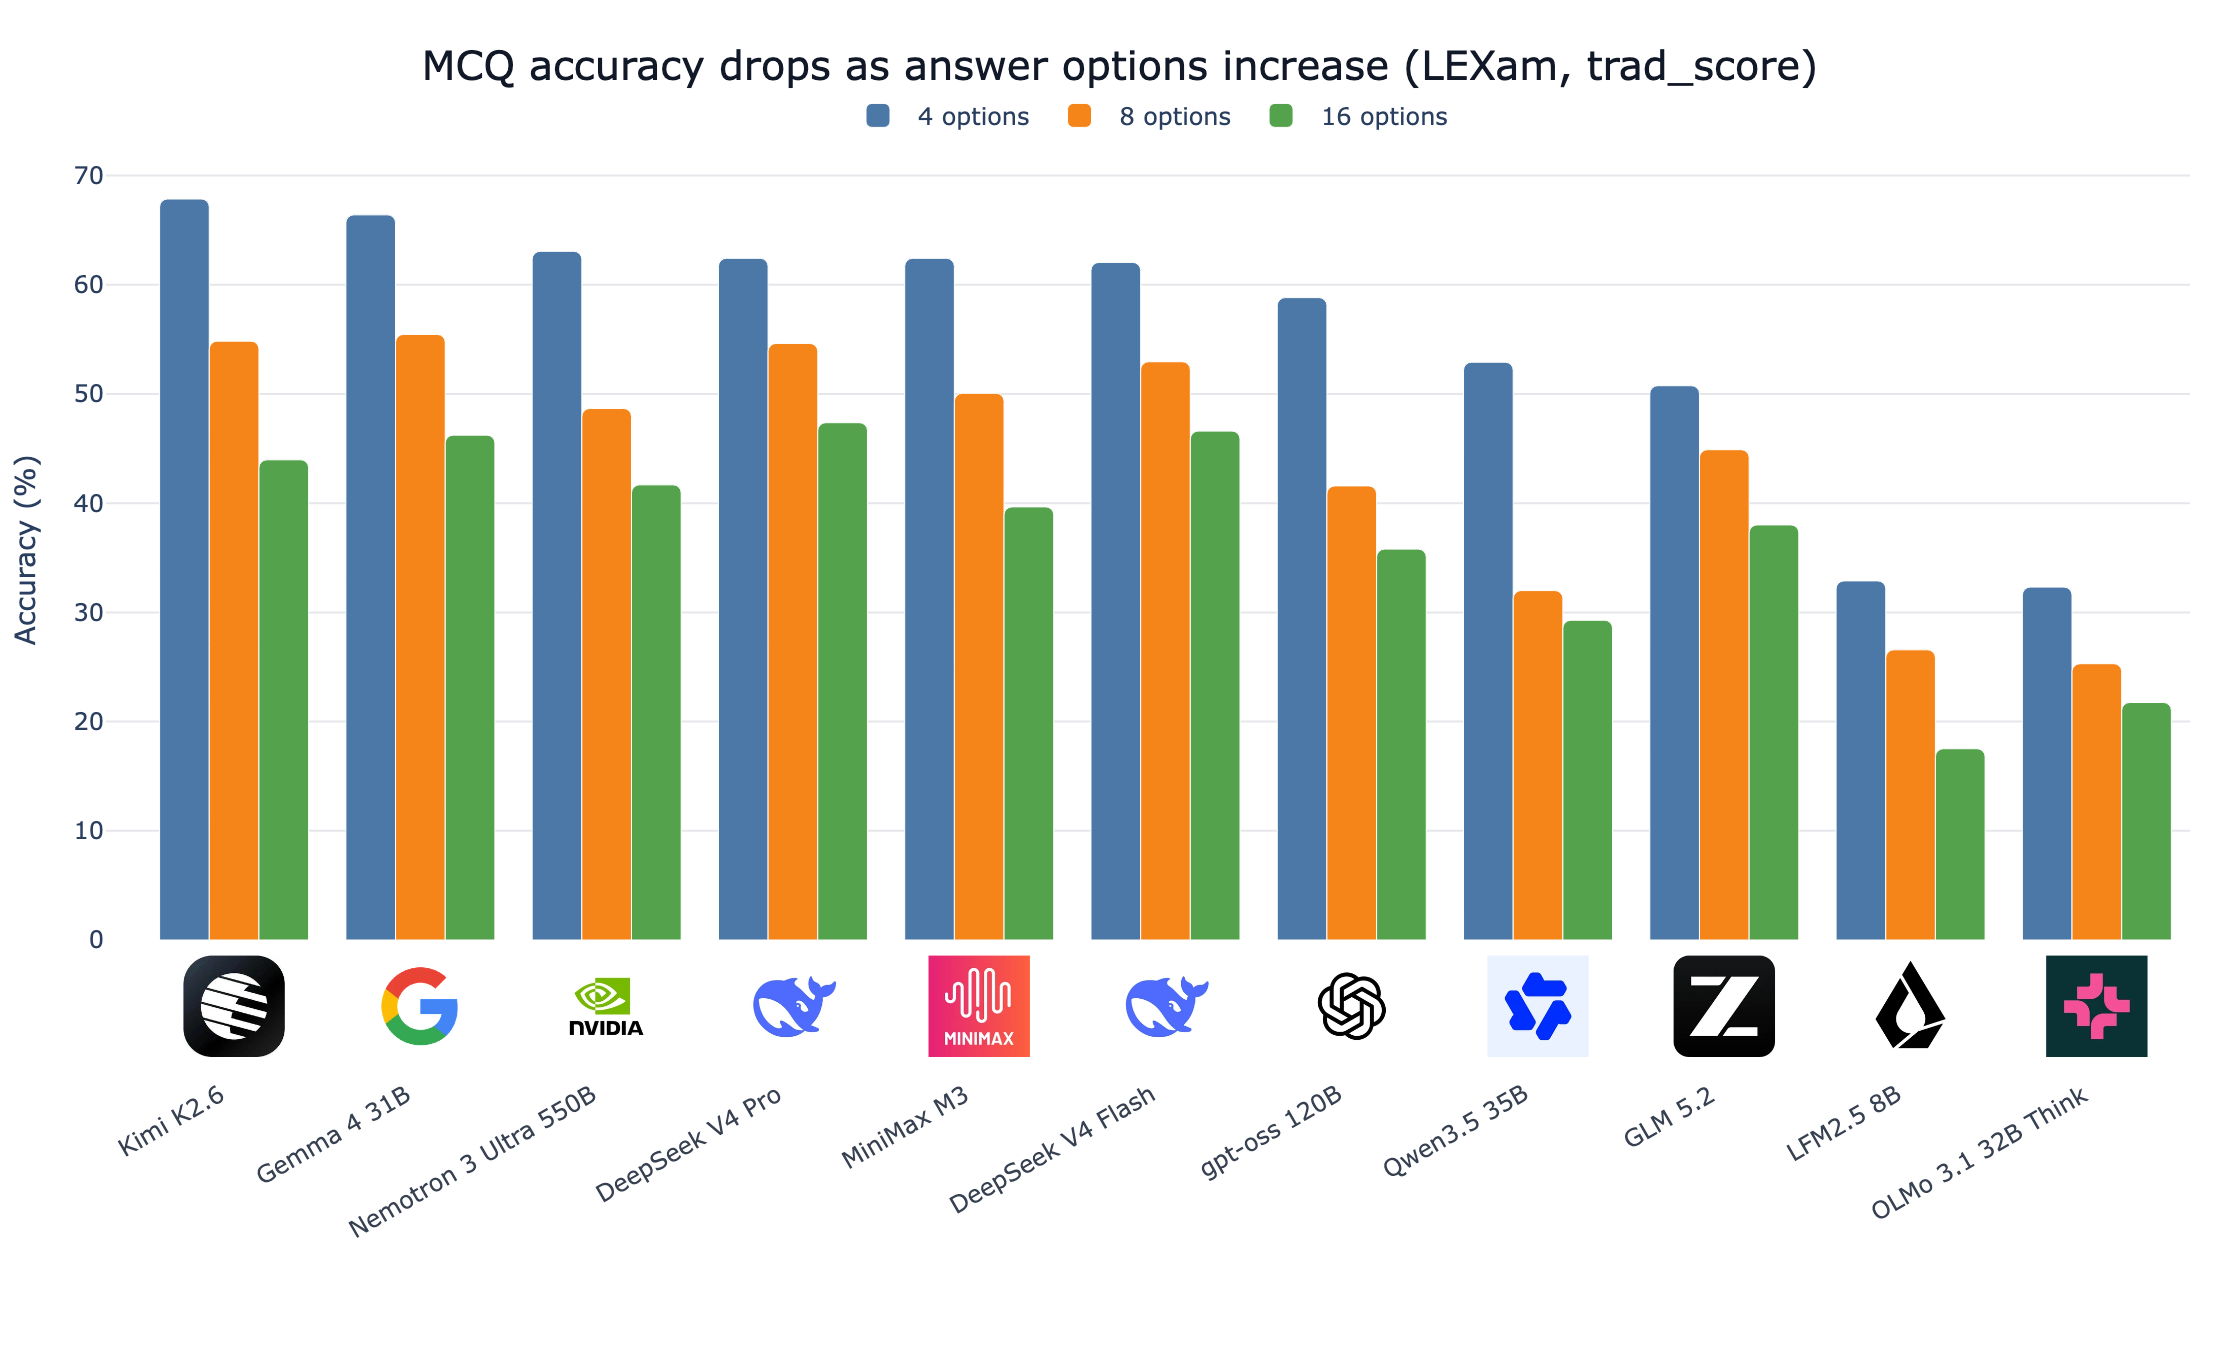
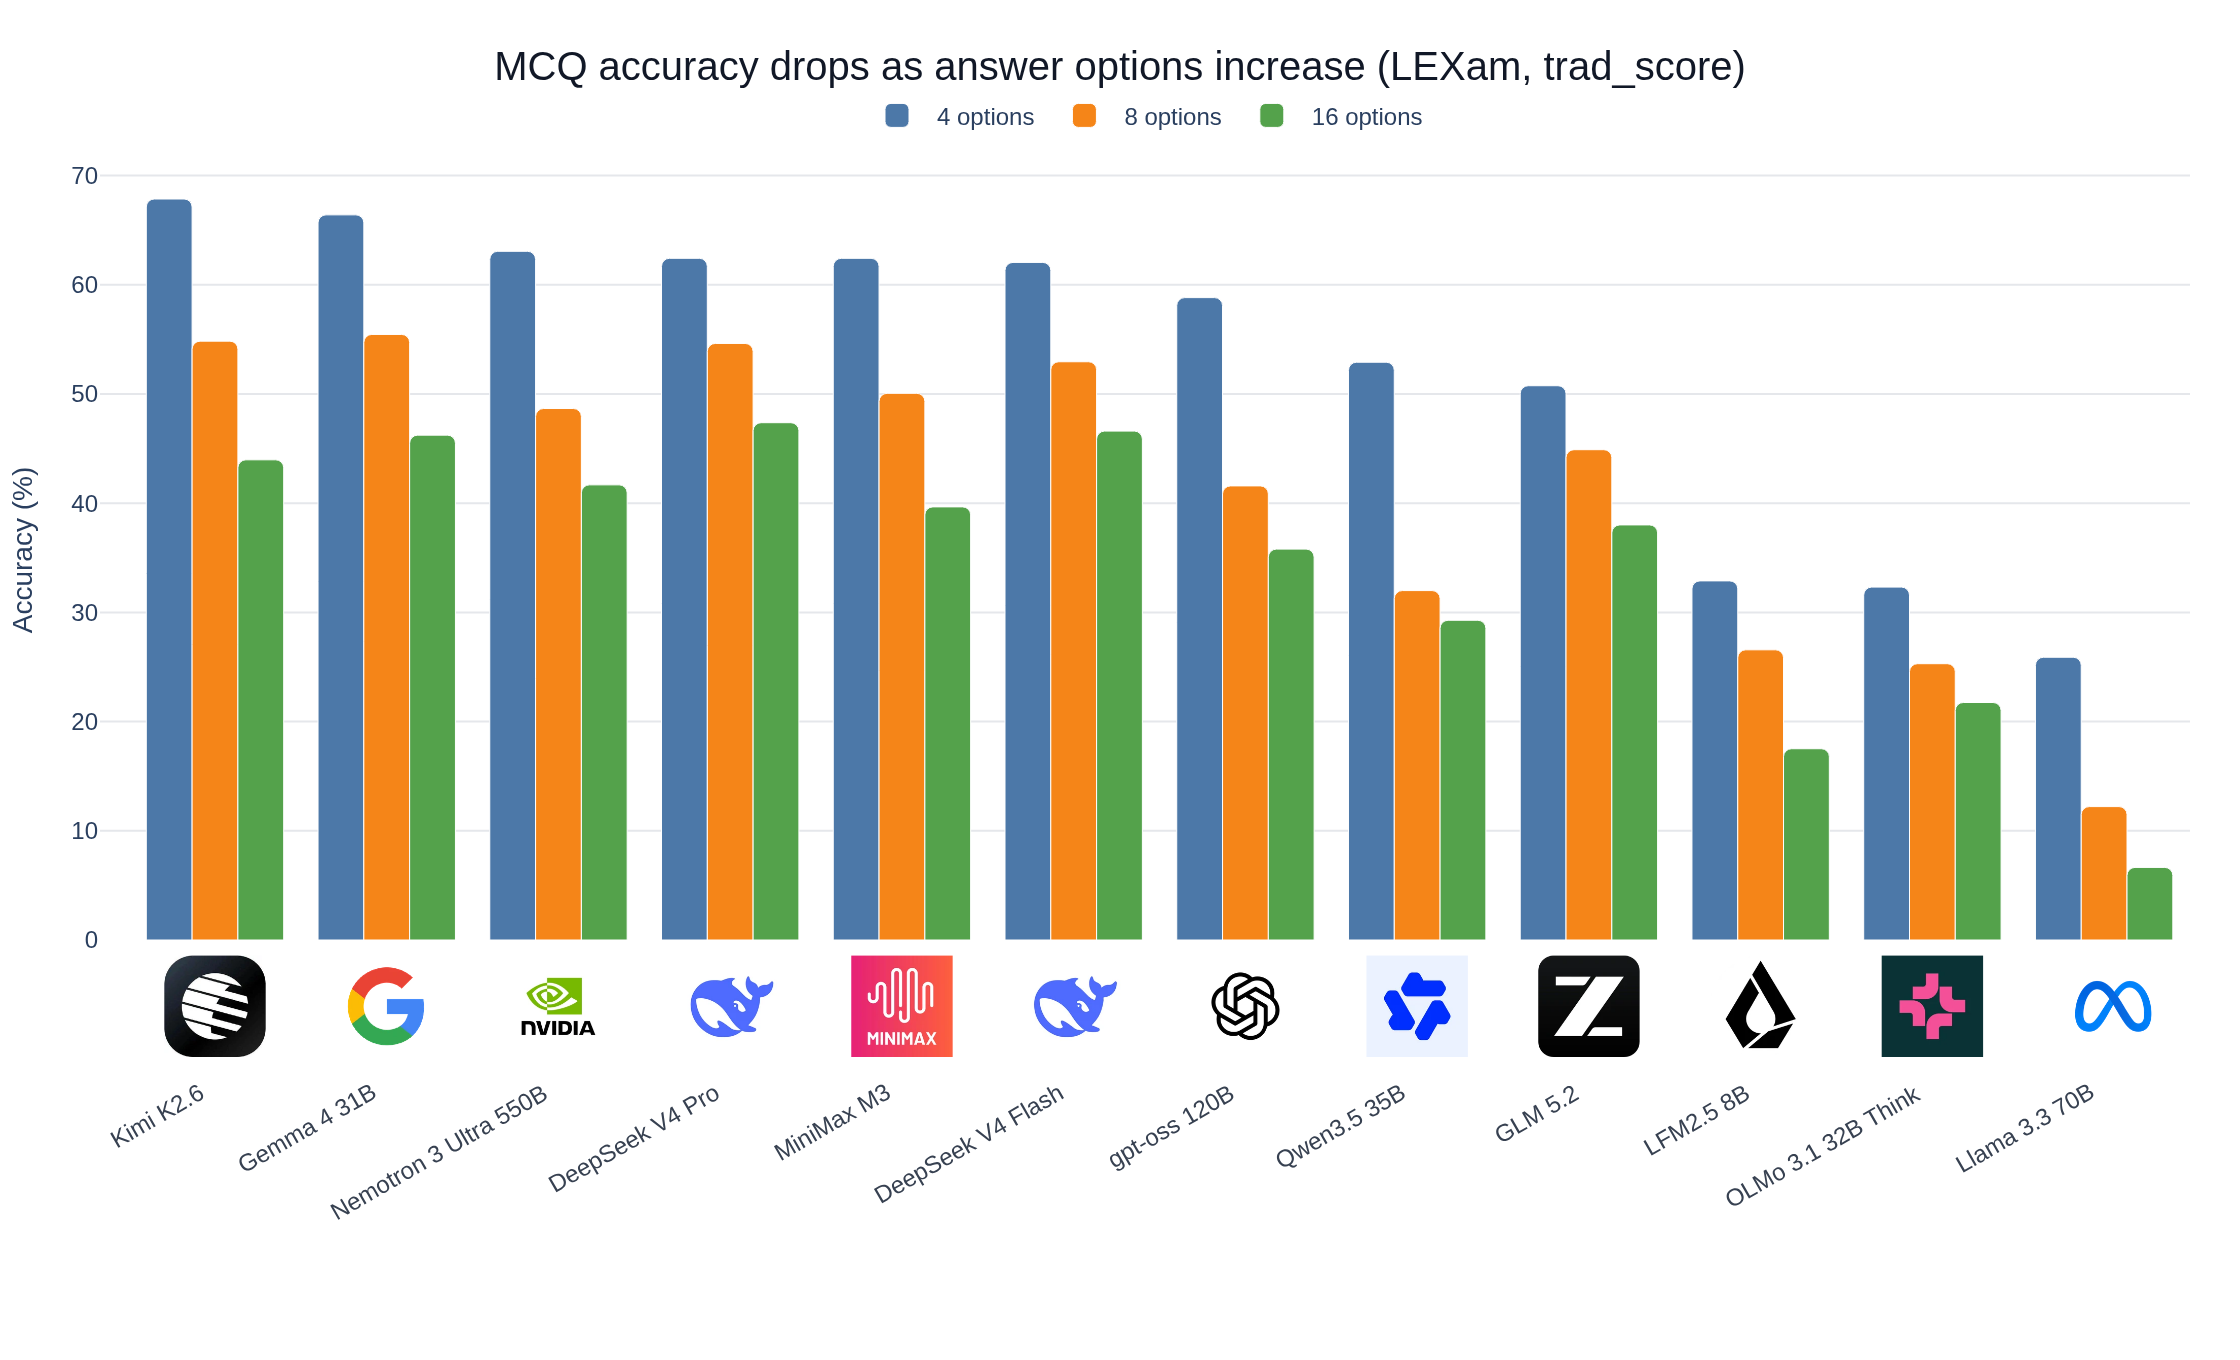
Refresh blog analysis with Llama 3.3 results
Add Llama 3.3 70B to the published comparison, update the narrative and model statistics, and regenerate all blog figures with its branding.

diff --git a/blog/make_figures.py b/blog/make_figures.py
@@ -52,6 +52,7 @@ DISPLAY_NAMES = {
     "GLM-5.2": "GLM 5.2",
     "Hy-MT2-30B-A3B": "Hunyuan MT2 30B",
     "Kimi-K2.6": "Kimi K2.6",
+    "Llama-3.3-70B-Instruct": "Llama 3.3 70B",
     "LFM2.5-8B-A1B": "LFM2.5 8B",
     "MiniMax-M3": "MiniMax M3",
     "NVIDIA-Nemotron-3-Ultra-550B-A55B-NVFP4": "Nemotron 3 Ultra 550B",
@@ -68,6 +69,7 @@ ORG_BY_MODEL = {
     "GLM 5.2": "zai-org",
     "Hunyuan MT2 30B": "tencent",
     "Kimi K2.6": "moonshotai",
+    "Llama 3.3 70B": "meta-llama",
     "LFM2.5 8B": "LiquidAI",
     "MiniMax M3": "MiniMaxAI",
     "Nemotron 3 Ultra 550B": "nvidia",
@@ -85,6 +87,7 @@ BRAND_COLORS = {
     "DeepSeek V4 Flash": "#8AA0FF",
     "MiniMax M3": "#E1275C",
     "GLM 5.2": "#12A594",
+    "Llama 3.3 70B": "#0467DF",
     "Gemma 4 31B": "#4285F4",
     "gpt-oss 120B": "#202124",
     "Qwen3.5 35B": "#B03CE6",

diff --git a/blog/swiss-legal-evals-2026.md b/blog/swiss-legal-evals-2026.md
@@ -1,20 +1,20 @@
 # The state-of-the-art in open-source AI for Swiss legal tasks
 
-*Joel Niklaus · July 6 2026*
+*Joel Niklaus · July 12 2026*
 
-If you need an open-weight LLM for Swiss legal work in German, French, or Italian, there is no single best model in 2026. We evaluated 12 open models on three Swiss legal benchmarks, 55,861 scored samples each, and the top five finish within 2.1 points on our composite score.
+If you need an open-weight LLM for Swiss legal work in German, French, or Italian, there is no single best model in 2026. We evaluated 13 open models on three Swiss legal benchmarks, 55,861 scored samples each, and the top five finish within 2.1 points on our composite score.
 
 The model that wins overall is not the best translator. And the best translator is one of the weakest at multiple-choice law questions. So the right question is not "which open model is best" but "best at what."
 
 This post is for anyone deciding which open model to run on Swiss legal text, and for anyone who wants the current numbers instead of vibes. All results come from a single full run: the raw outputs live in the public [Hugging Face bucket](https://huggingface.co/buckets/joelniklaus/SwissLegalEvals), and the [`run.py` entry point](https://github.com/JoelNiklaus/SwissLegalEvals/blob/main/src/swiss_legal_evals/run.py) reproduces every number below.
 
-![Overall composite score across SLDS, SwiLTra-Bench, and LEXam for 11 comparable open models](figures/overall_ranking.png)
+![Overall composite score across SLDS, SwiLTra-Bench, and LEXam for 12 comparable open models](figures/overall_ranking.png)
 
 NVIDIA's Nemotron 3 Ultra 550B leads the composite at 59.0. But Kimi K2.6 (58.6), DeepSeek V4 Pro (58.3), DeepSeek V4 Flash (57.3), and MiniMax M3 (56.9) trail by only 0.4, 0.7, 1.7, and 2.1 points.
 
 Treat the top of this chart as a five-way tie, not a clean ranking. A task-level bootstrap over the same result files (10,000 resamples within each benchmark family) gives 95% intervals with half-widths of roughly 3.2 to 3.6 points for the top five models, larger than the 2.1-point spread between first and fifth. That uncertainty is also consistent with recent LLM-as-judge work: [JudgeSense](https://arxiv.org/abs/2604.23478) finds that equivalent prompt rephrasings can flip judge decisions, and [Li et al.](https://arxiv.org/abs/2506.22316) show that score-based judges shift under rubric and reference-answer perturbations. The composite averages four task groups (SLDS summarization, LEXam open questions, translation, and MCQ), each on a 0-100 scale.
 
-The gap only becomes decisive further down, with one exception. Gemma 4 31B reaches 54.8 overall, seventh place and within 0.7 of GLM 5.2 (55.5), which is striking for a 31B model sitting among the 500B-class frontier. Size alone does not explain the rest. Qwen3.5 35B (42.8) is a mixture-of-experts that activates only 3B parameters per token. OLMo 3.1 32B Think is dense and the same size as Gemma, yet scores 26.0, under half as well. And LFM2.5 8B (24.8), the only genuinely small model here, sits at the bottom. None of the three are ready for Swiss legal work yet.
+The gap only becomes decisive further down, with one exception. Gemma 4 31B reaches 54.8 overall, seventh place and within 0.7 of GLM 5.2 (55.5), which is striking for a 31B model sitting among the 500B-class frontier. Size alone does not explain the rest. Llama 3.3 70B (33.0) lands below Qwen3.5 35B (42.8), a mixture-of-experts that activates only 3B parameters per token. OLMo 3.1 32B Think is dense and the same size as Gemma, yet scores 26.0, under half as well. And LFM2.5 8B (24.8), the only genuinely small model here, sits at the bottom. None of these four are ready for Swiss legal work yet.
 
 ## What we measure: three Swiss legal benchmarks in three languages
 
@@ -40,10 +40,10 @@ If your workload is translation, run GLM 5.2. If it is summarization or open-end
 
 ## A 3B-active specialist nearly matches the frontier in translation
 
-The  models perform best in translation: nine of twelve score at least 57 out of 100. GLM 5.2 tops it at 66.2, ahead of Kimi K2.6 (65.3) and DeepSeek V4 Pro (64.2).
+The models perform best in translation: ten of thirteen score at least 57 out of 100. GLM 5.2 tops it at 66.2, ahead of Kimi K2.6 (65.3) and DeepSeek V4 Pro (64.2).
 
 
-![SwiLTra-Bench translation average for all 12 models](figures/translation.png)
+![SwiLTra-Bench translation average for all 13 models](figures/translation.png)
 
 
 The efficiency surprise is Hunyuan MT2 30B, a translation specialist with only 3B active parameters (we ran it on SwiLTra-Bench only). It lands sixth at 61.9, within 4.3 points of the best open translator, GLM 5.2 (66.2). The five models ahead of it activate far more per token, from MiniMax M3's 23B up to Nemotron 3 Ultra's 55B, so a model with 8x to 18x fewer active parameters is nearly matching the frontier on translation. The takeaway cuts two ways: a specialist does not win on raw quality, but no model on the board delivers more per active parameter. If you are compute-bound, Hunyuan MT2 is the translation model to watch. If you only want the best output, the big MoEs still win.
@@ -52,7 +52,7 @@ The efficiency surprise is Hunyuan MT2 30B, a translation specialist with only 3
 
 SwiLTra-Bench splits into three document types, and they are not equally hard.
 
-![Translation judge scores on the three SwiLTra-Bench subsets for all 12 models](figures/translation_subsets.png)
+![Translation judge scores on the three SwiLTra-Bench subsets for all 13 models](figures/translation_subsets.png)
 
 For the strong models the order is consistent: court-decision summaries are easiest, statutory law sits in the middle, and press releases are hardest. GLM 5.2 scores 71.0 on decision summaries but 60.5 on press releases, and every model in the top eight ranks the subsets in that same order. DeepSeek V4 Pro is the one that pulls ahead on press releases (61.2, the only score above 61 on that subset).
 
@@ -74,9 +74,9 @@ The `trad_score` in the chart treats "I don't know" as wrong. The benchmark also
 
 Averaging every German, French, and Italian task a model produces (SLDS plus the three translation subsets, the benchmarks that cover all three languages) exposes a small but consistent gap.
 
-![Mean judge score by Swiss language across SLDS and translation for the 11 comparable models](figures/language_comparison.png)
+![Mean judge score by Swiss language across SLDS and translation for the 12 comparable models](figures/language_comparison.png)
 
-French comes out highest on average (51.7 across the 11 comparable models), German is close behind (50.7), and Italian is last (48.4). The gap is only about three points, but it holds up: Italian is the lowest of the three for 8 of the 11 models, and German and French are within a point of each other. The likely cause is data volume, since Italian is the smallest of the three languages in Swiss legal corpora and on the open web. LEXam is left out of this cut because it exists only in German and English, and including it would compare the languages on an unequal benchmark mix.
+French comes out highest on average (50.7 across the 12 comparable models), German is close behind (49.9), and Italian is last (47.6). The gap is a little over three points, and Italian is the lowest of the three for 9 of the 12 models. German and French remain within a point of each other. The likely cause is data volume, since Italian is the smallest of the three languages in Swiss legal corpora and on the open web. LEXam is left out of this cut because it exists only in German and English, and including it would compare the languages on an unequal benchmark mix.
 
 ## Model sizes and the hardware to run them
 
@@ -87,6 +87,7 @@ Two numbers decide the cost of serving a model. Total parameters set how much me
 | DeepSeek V4 Pro       |  1.6T |    49B | FP4+FP8   | ~0.85 TB | 8x H200       |
 | Kimi K2.6             |    1T |    32B | INT4      |  ~0.5 TB | 4x H200       |
 | GLM 5.2               |  753B |    40B | BF16      |  ~1.5 TB | 11x H200      |
+| Llama 3.3 70B         |   70B |    70B | BF16      | ~140 GB  | 2x H100       |
 | Nemotron 3 Ultra 550B |  550B |    55B | NVFP4     |  ~275 GB | 4x H100       |
 | MiniMax M3            |  428B |    23B | BF16      | ~0.85 TB | 7x H200       |
 | DeepSeek V4 Flash     |  284B |    13B | FP4+FP8   |  ~150 GB | 2x H100       |
@@ -99,7 +100,7 @@ Two numbers decide the cost of serving a model. Total parameters set how much me
 
 Weights are total parameters times bytes per parameter (BF16 = 2, FP8 = 1, INT4/FP4 = 0.5), before the KV cache that long context adds; GPU counts assume 80 GB (H100) or 141 GB (H200) cards. We ran the local vLLM models on 4 H100s each for 64k-context throughput, well above these weight-only minimums.
 
-Precision shifts the picture as much as size. Kimi K2.6 has more total parameters than GLM 5.2 (1T versus 753B), but it ships as INT4, so its weights (~0.5 TB) are a third of GLM's BF16 footprint (~1.5 TB). Six of the twelve models need a multi-GPU server; the other six fit on one accelerator, and five of those run on a single 80 GB H100. That is the case for Gemma 4 31B: near-frontier quality (54.8 overall) from one GPU, while every model ranked above it needs several.
+Precision shifts the picture as much as size. Kimi K2.6 has more total parameters than GLM 5.2 (1T versus 753B), but it ships as INT4, so its weights (~0.5 TB) are a third of GLM's BF16 footprint (~1.5 TB). Seven of the thirteen models need a multi-GPU server; the other six fit on one accelerator, and five of those run on a single 80 GB H100. That is the case for Gemma 4 31B: near-frontier quality (54.8 overall) from one GPU, while every model ranked above it needs several.
 
 ## Known limitations
 
@@ -107,7 +108,7 @@ Treat the composite as indicative rather than a normalized benchmark: it mixes 0
 
 ## Conclusion
 
-The open frontier on Swiss legal tasks is close and specialized. Five models finish within 2.1 composite points, no single one wins every group, and the right pick depends on the job: GLM 5.2 for translation, Nemotron 3 Ultra or a DeepSeek V4 variant for summarization and open-ended reasoning, and Gemma 4 31B when you need near-frontier quality on a single GPU. Absolute quality is not there yet. The strongest models score in the mid-60s on open legal exam questions and fall into the 40s on 16-option multiple choice, so a lawyer still has to check the output on real matters.
+The open frontier on Swiss legal tasks is close and specialized. Five models finish within 2.1 composite points, no single one wins every group, and the right pick depends on the job: GLM 5.2 for translation, Nemotron 3 Ultra or a DeepSeek V4 variant for summarization and open-ended reasoning, and Gemma 4 31B when you need near-frontier quality on a single GPU. Llama 3.3 70B reinforces the specialization point: it is eighth in translation but tenth overall because its SLDS and MCQ scores collapse. Absolute quality is not there yet. The strongest models score in the mid-60s on open legal exam questions and fall into the 40s on 16-option multiple choice, so a lawyer still has to check the output on real matters.
 
 ## Reproduce this
 
